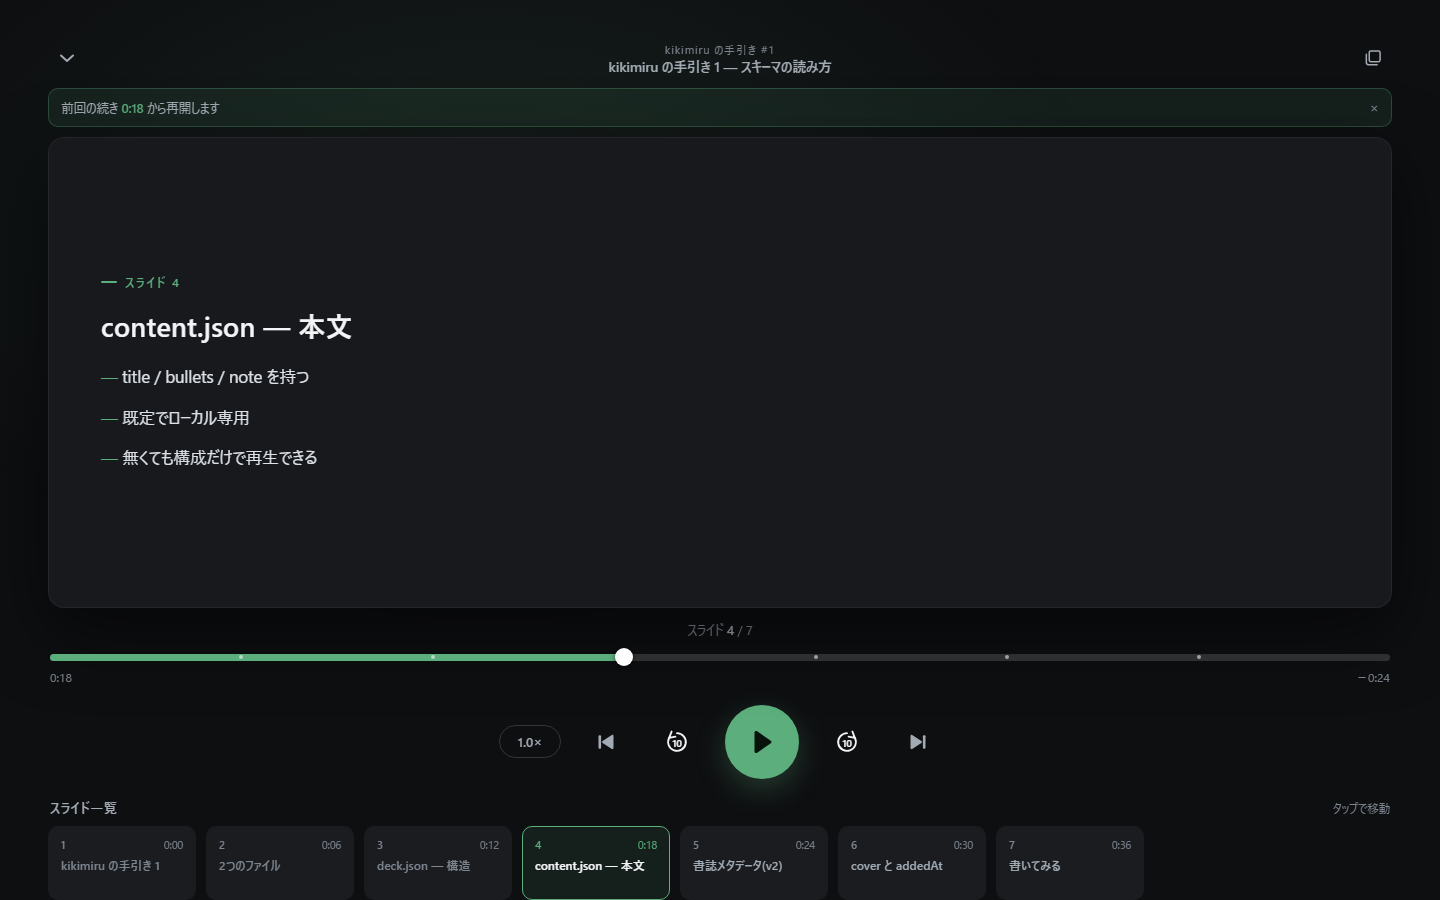
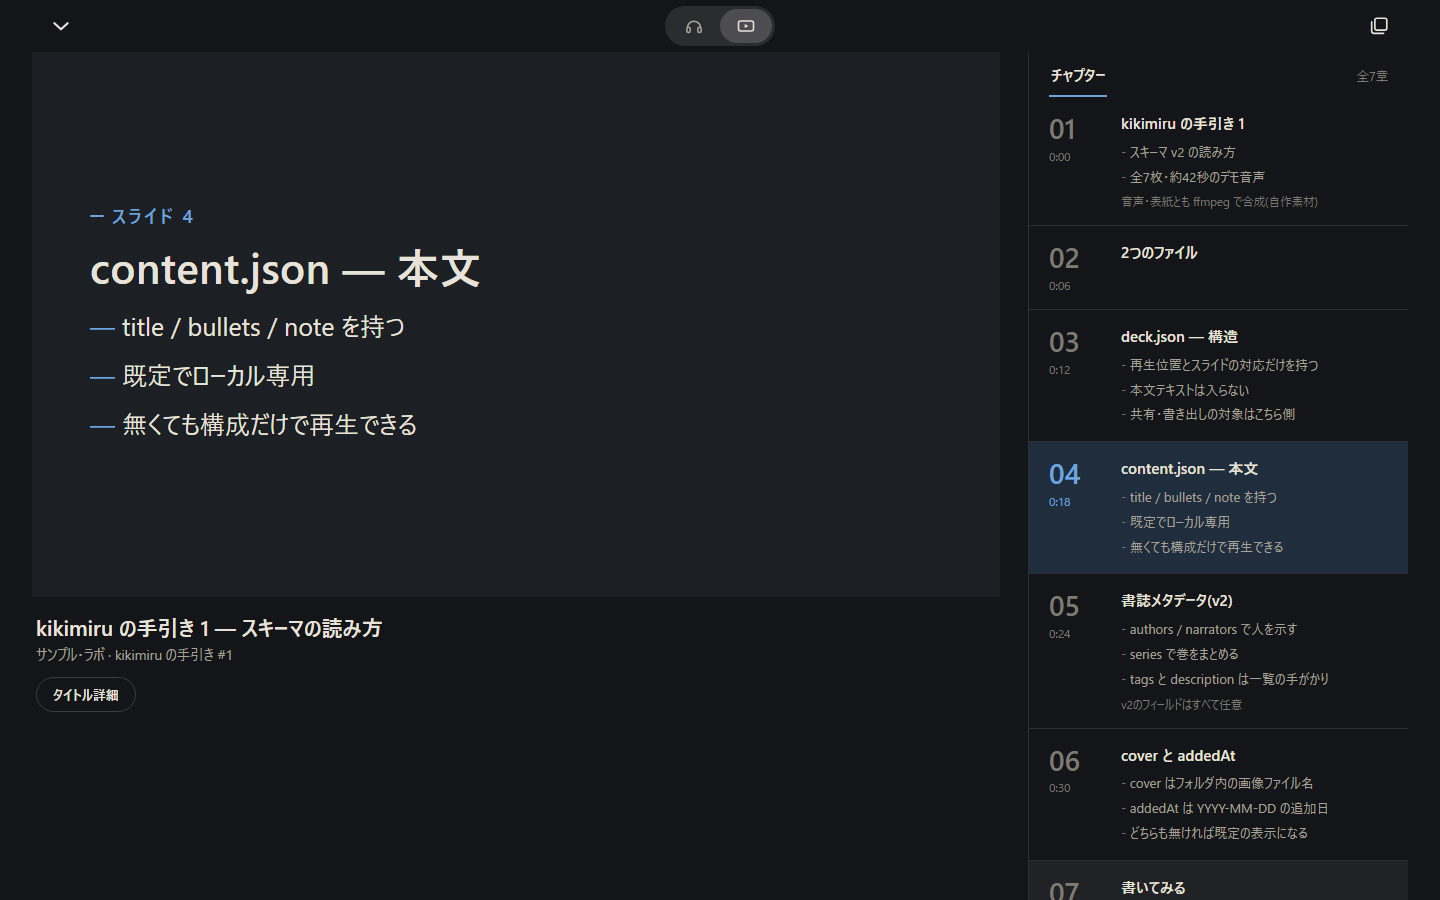
README: プレイヤーのスクリーンショットを現行UIへ更新する
プレイヤーUI全面再構築(765b867)以降の画面と、掲載中のものが一致して
いなかった。上部タブで表紙とスライドを切り替えられるが、READMEが説明
しているのは「音声の再生に同期してスライドが切り替わる」ことなので、
スライド表示の側を載せる(表紙の見せ場は home / book-detail と重なる)。

alt text も実際の画面に合わせて書き直した。旧文面が指していた
cue目盛付きシークバーとスライド一覧は、現行UIのこの表示には出ない。

撮影条件は docs/screenshots/SOURCES.md に追記した。スライド表示の操作
オーバーレイは再生中のみ2.6秒で自動的に消えるため、停止したまま撮ると
再生ボタンが本文の上に重なる。再生を開始してから撮ること。

diff --git a/docs/screenshots/SOURCES.md b/docs/screenshots/SOURCES.md
@@ -13,12 +13,12 @@ README掲載用のUIスクリーンショット。すべて本リポジトリの
 | mobile-home.png | ホーム画面(390×844・モバイル幅) | 2026-08-20 |
 
 2026-08-20: ロゴ刷新に伴い、カバーのプレースホルダのグリフが変わったため3枚を撮り直した
-(差分は当該グリフ周辺のみ・0.3%以下)。
+(差分は当該グリフ周辺のみ・0.3%以下)。あわせて player.png も、プレイヤーUIの
+全面再構築(commit 765b867)以降の画面へ更新した。
 
-**player.png は現在の画面と一致していない。** プレイヤーUIの全面再構築(commit 765b867)
-以降、既定表示は表紙+チャプター一覧になり、上部のタブでスライド表示(16:9)へ切り替わる。
-デスクトップ幅では2カラム(左=メディア+操作 / 右=チャプター)。撮り直す際は、
-どちらの表示を載せるかを決めてから撮ること。
+**player.png はスライド表示を載せる。** プレイヤーは上部タブで表紙⇄スライドを切り替えるが、
+READMEが説明しているのは「音声の再生に同期してスライドが切り替わる」ことなので、
+表紙ではなくスライド側を載せる(表紙側の見せ場は home / book-detail と重なる)。
 
 ## 再撮影の条件
 
@@ -30,6 +30,11 @@ README掲載用のUIスクリーンショット。すべて本リポジトリの
   - `demo/demo-guide-1`: `{t: 18, d: 42, s: 3, n: 7}`(残り 0:24・スライド 3/7)
   - `demo/demo-audio-lab`: `{t: 35, d: 35, s: 5, n: 5}`(聴了)
 - `at` は固定値にする(`Date.now()` だと撮影ごとに表示が揺れる)
+- player.png はスライド表示にする(`localStorage` の `kikimiru.npTab` を `slide`)。
+  さらに**再生を開始してから撮る**こと。スライド表示の操作オーバーレイは再生中のみ
+  2.6秒で自動的に消える仕様で、停止したまま撮ると再生ボタンが本文の上に重なる
+  (Chromium は `--autoplay-policy=no-user-gesture-required` で起動し、
+  `audio.play()` を呼んでから4秒ほど待つ)
 - サーバをスクリプトから起動する場合、**標準出力をパイプのまま放置しない**。
   リクエスト毎のログでパイプバッファが埋まり、サーバが write でブロックして応答しなくなる
   (実測。ファイルか `DEVNULL` へ逃がすこと)

diff --git a/README.md b/README.md
@@ -16,7 +16,7 @@ For your own lectures, recordings, narrated tutorials, language practice, and pu
 ![Home — resume card, recently added, series and browse](docs/screenshots/home.png)
 
 <p>
-<img src="docs/screenshots/player.png" width="49%" alt="Player — synchronized slide view with cue-marked scrubber and slide filmstrip">
+<img src="docs/screenshots/player.png" width="49%" alt="Player — slide view synchronized to playback, with the chapter list marking the current slide">
 <img src="docs/screenshots/book-detail.png" width="49%" alt="Book detail — cover, metadata, tags, description and play actions">
 </p>
 <img src="docs/screenshots/mobile-home.png" width="32%" alt="Home on a phone-sized viewport with bottom tab bar">
@@ -103,7 +103,7 @@ Roadmap: offline book downloads, multi-user, native mobile apps.
 ![ホーム — 続きから・最近追加・シリーズ・ブラウズ](docs/screenshots/home.png)
 
 <p>
-<img src="docs/screenshots/player.png" width="49%" alt="プレイヤー — cue目盛付きシークバーとスライド一覧を備えた同期表示">
+<img src="docs/screenshots/player.png" width="49%" alt="プレイヤー — 再生位置に同期したスライド表示と、現在位置を示すチャプター一覧">
 <img src="docs/screenshots/book-detail.png" width="49%" alt="ブック詳細 — カバー・書誌・タグ・説明文と再生操作">
 </p>
 <img src="docs/screenshots/mobile-home.png" width="32%" alt="モバイル幅のホーム(下部タブバー)">
